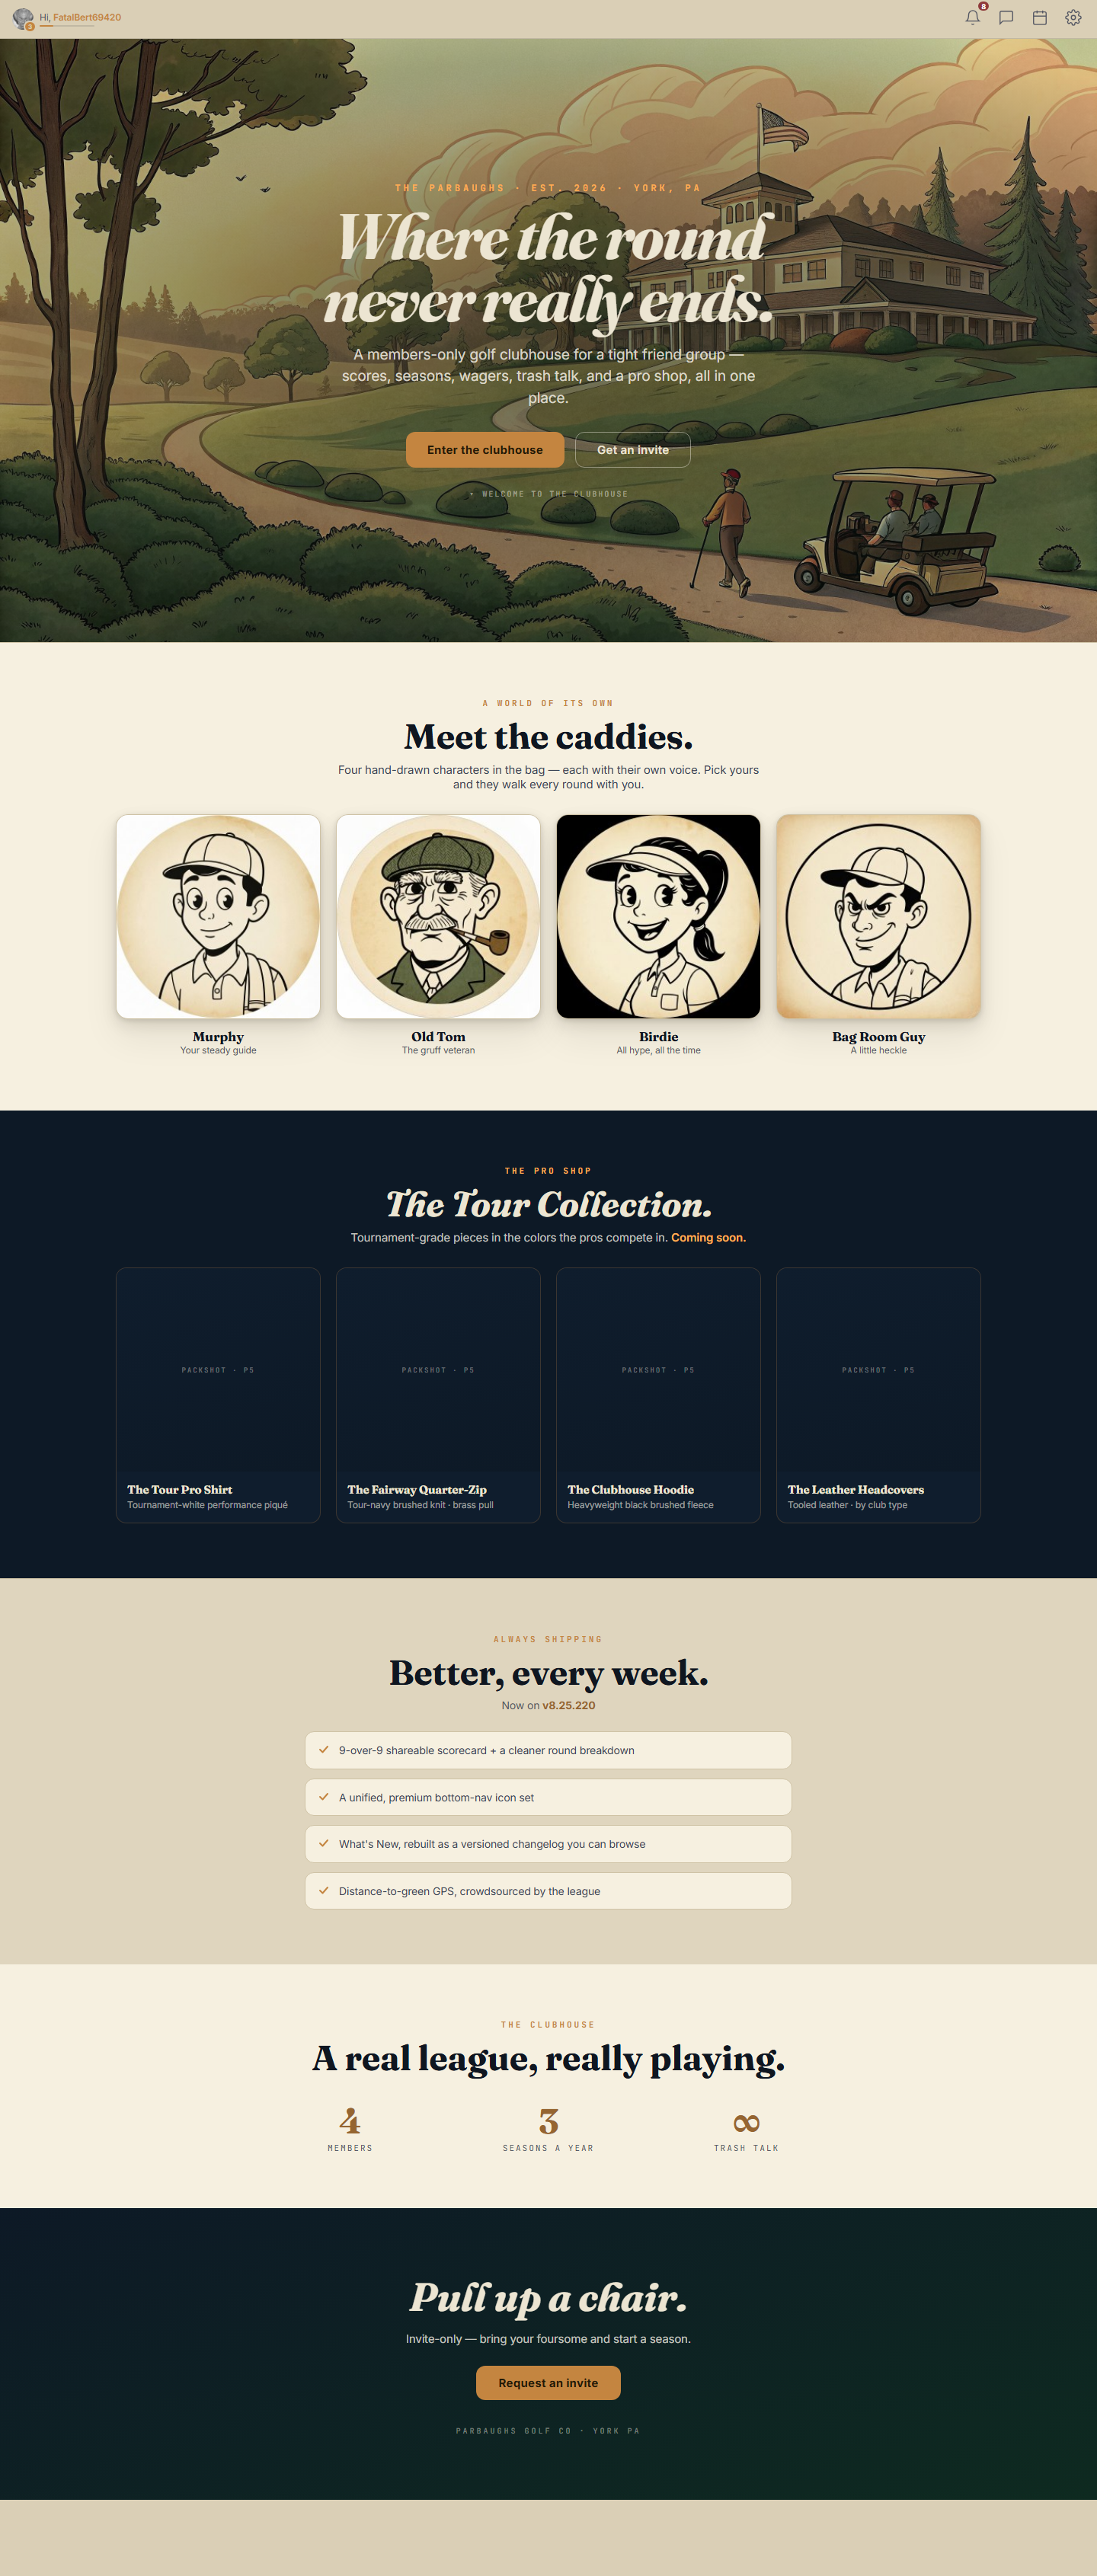
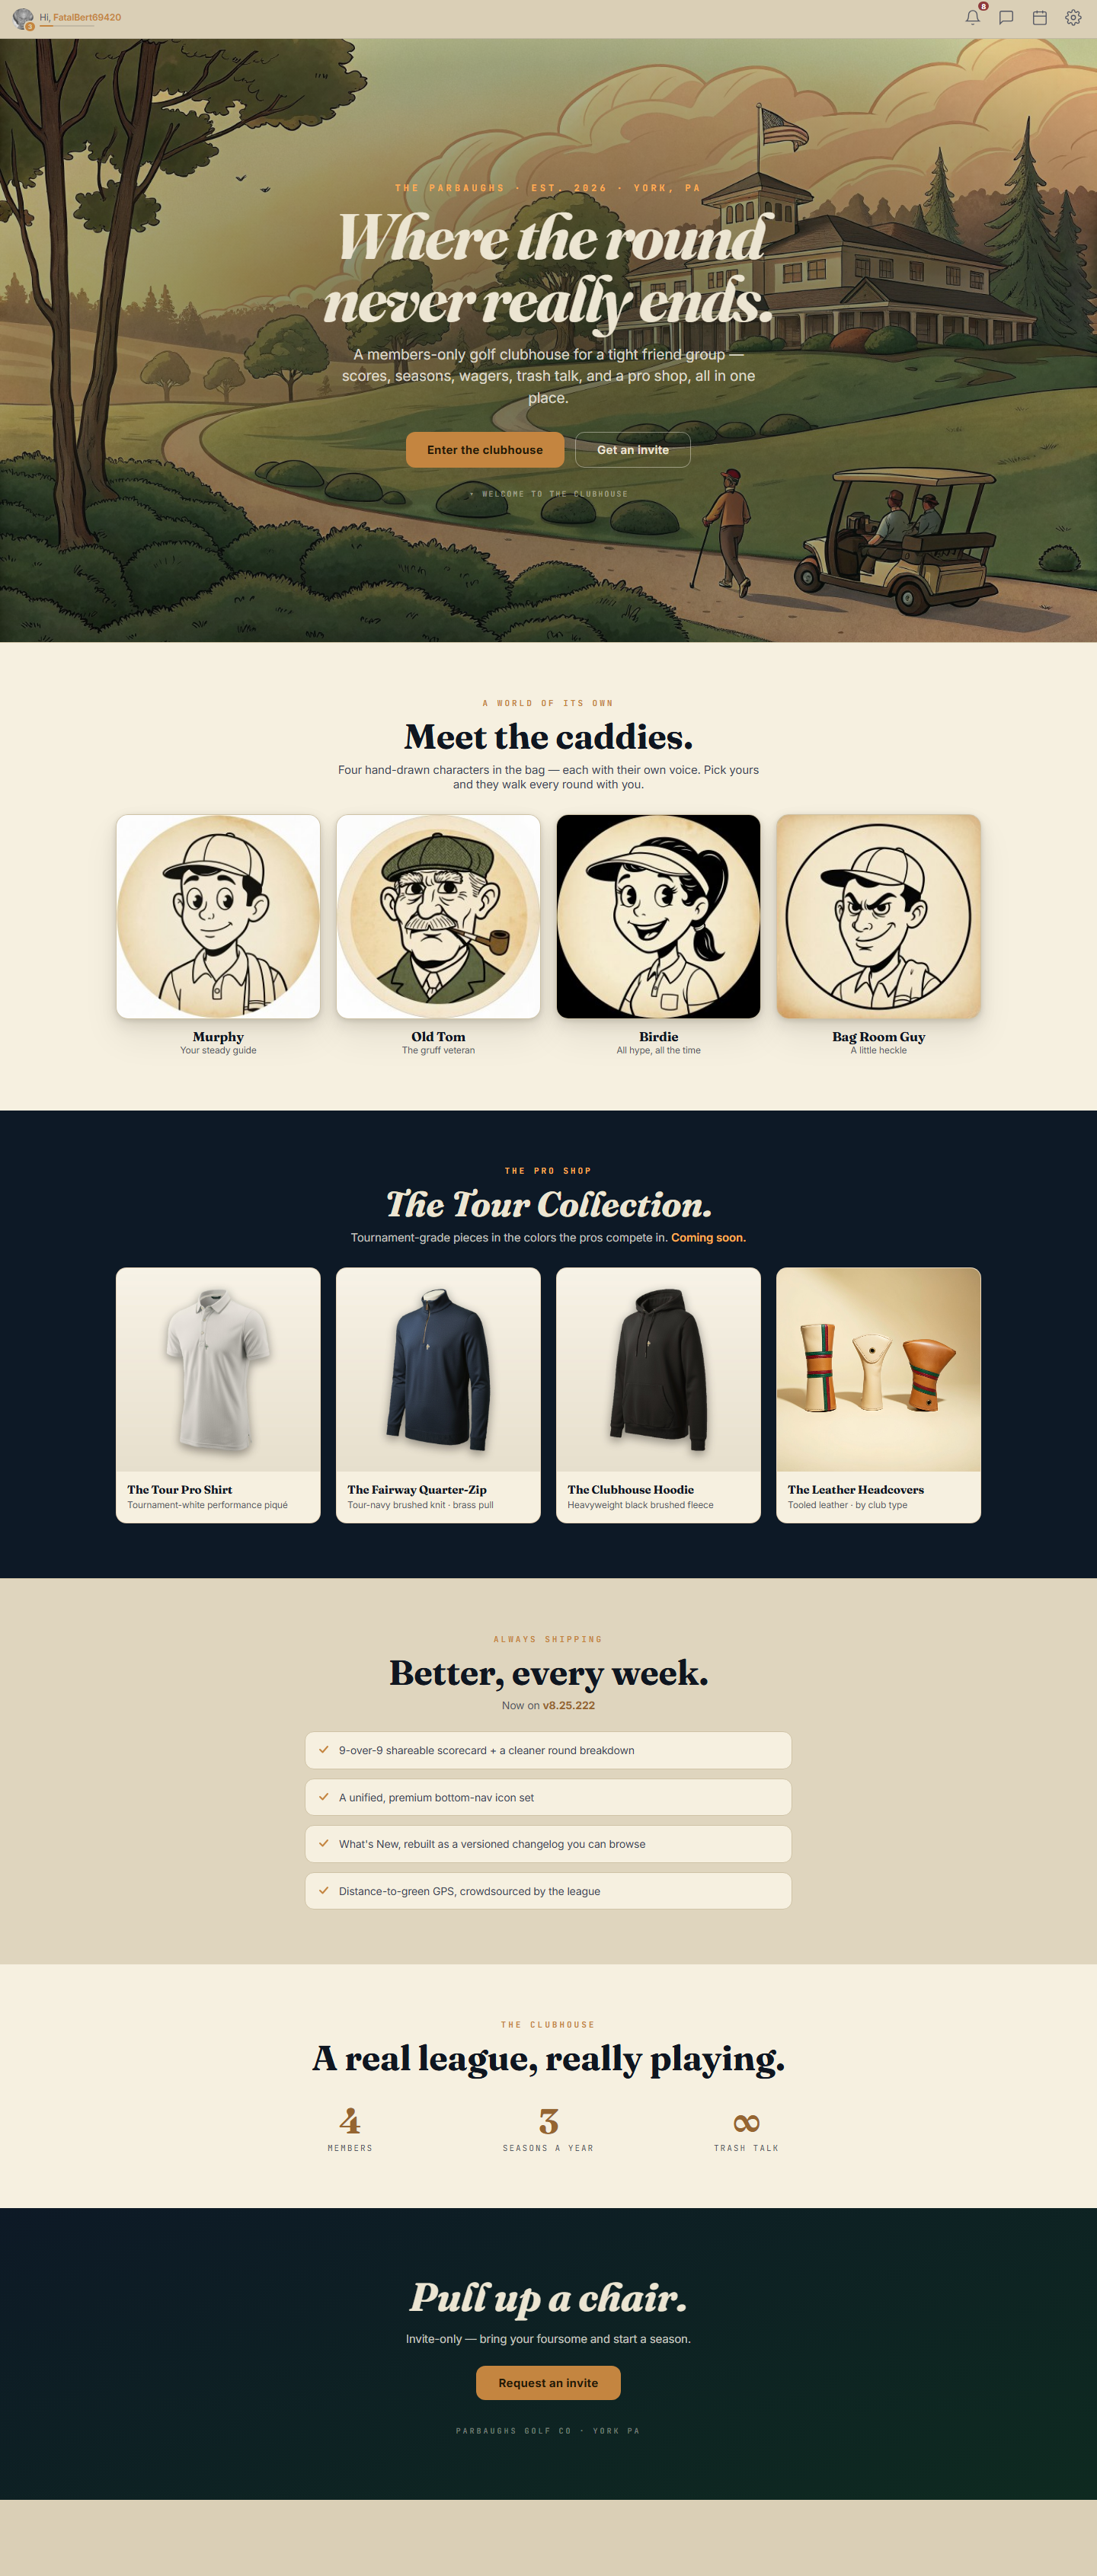
chore(backlog): showcase merch band real packshots (v8.25.222) — showcase fully real-art

Changed region(s): [[0.0938, 0.4657, 0.9062, 0.5899]]

diff --git a/.claude/state/loops/BACKLOG.md b/.claude/state/loops/BACKLOG.md
@@ -77,6 +77,9 @@ Bigger phases (research/gen/taste — tracked in the directive doc):
   • MERCH ACCESSORIES v8.25.221 — Vertex (cream-bg, no-key): 3 leather headcovers BY CLUB TYPE,
     a slim VERTICAL green-linen yardage book (hole maps), branded balls + sleeve → public/img/merch/.
     V1-confirmed in-layout — the merch page is now a complete premium storefront.
+  • SHOWCASE MERCH BAND v8.25.222 — wired the real packshots into the HQ showcase Tour Collection
+    band (was 'Packshot · P5' placeholder). V1: the whole showcase is now real-art throughout
+    (rubber-hose hero + caddie portraits + merch packshots) — cohesive awwwards-direction.
   REMAINING art slices (agent-actionable, generate→finish→wire→V1→Founder ≥9.5): the LEISURE
   rubber-hose graphic line (new merch section, Recraft) + KIDS+ADULT lines; RINGS/cosmetics raster
   (the shop pieces — HIGH taste-risk, previously rejected "atrocious", needs his close ≥9.5 iteration);